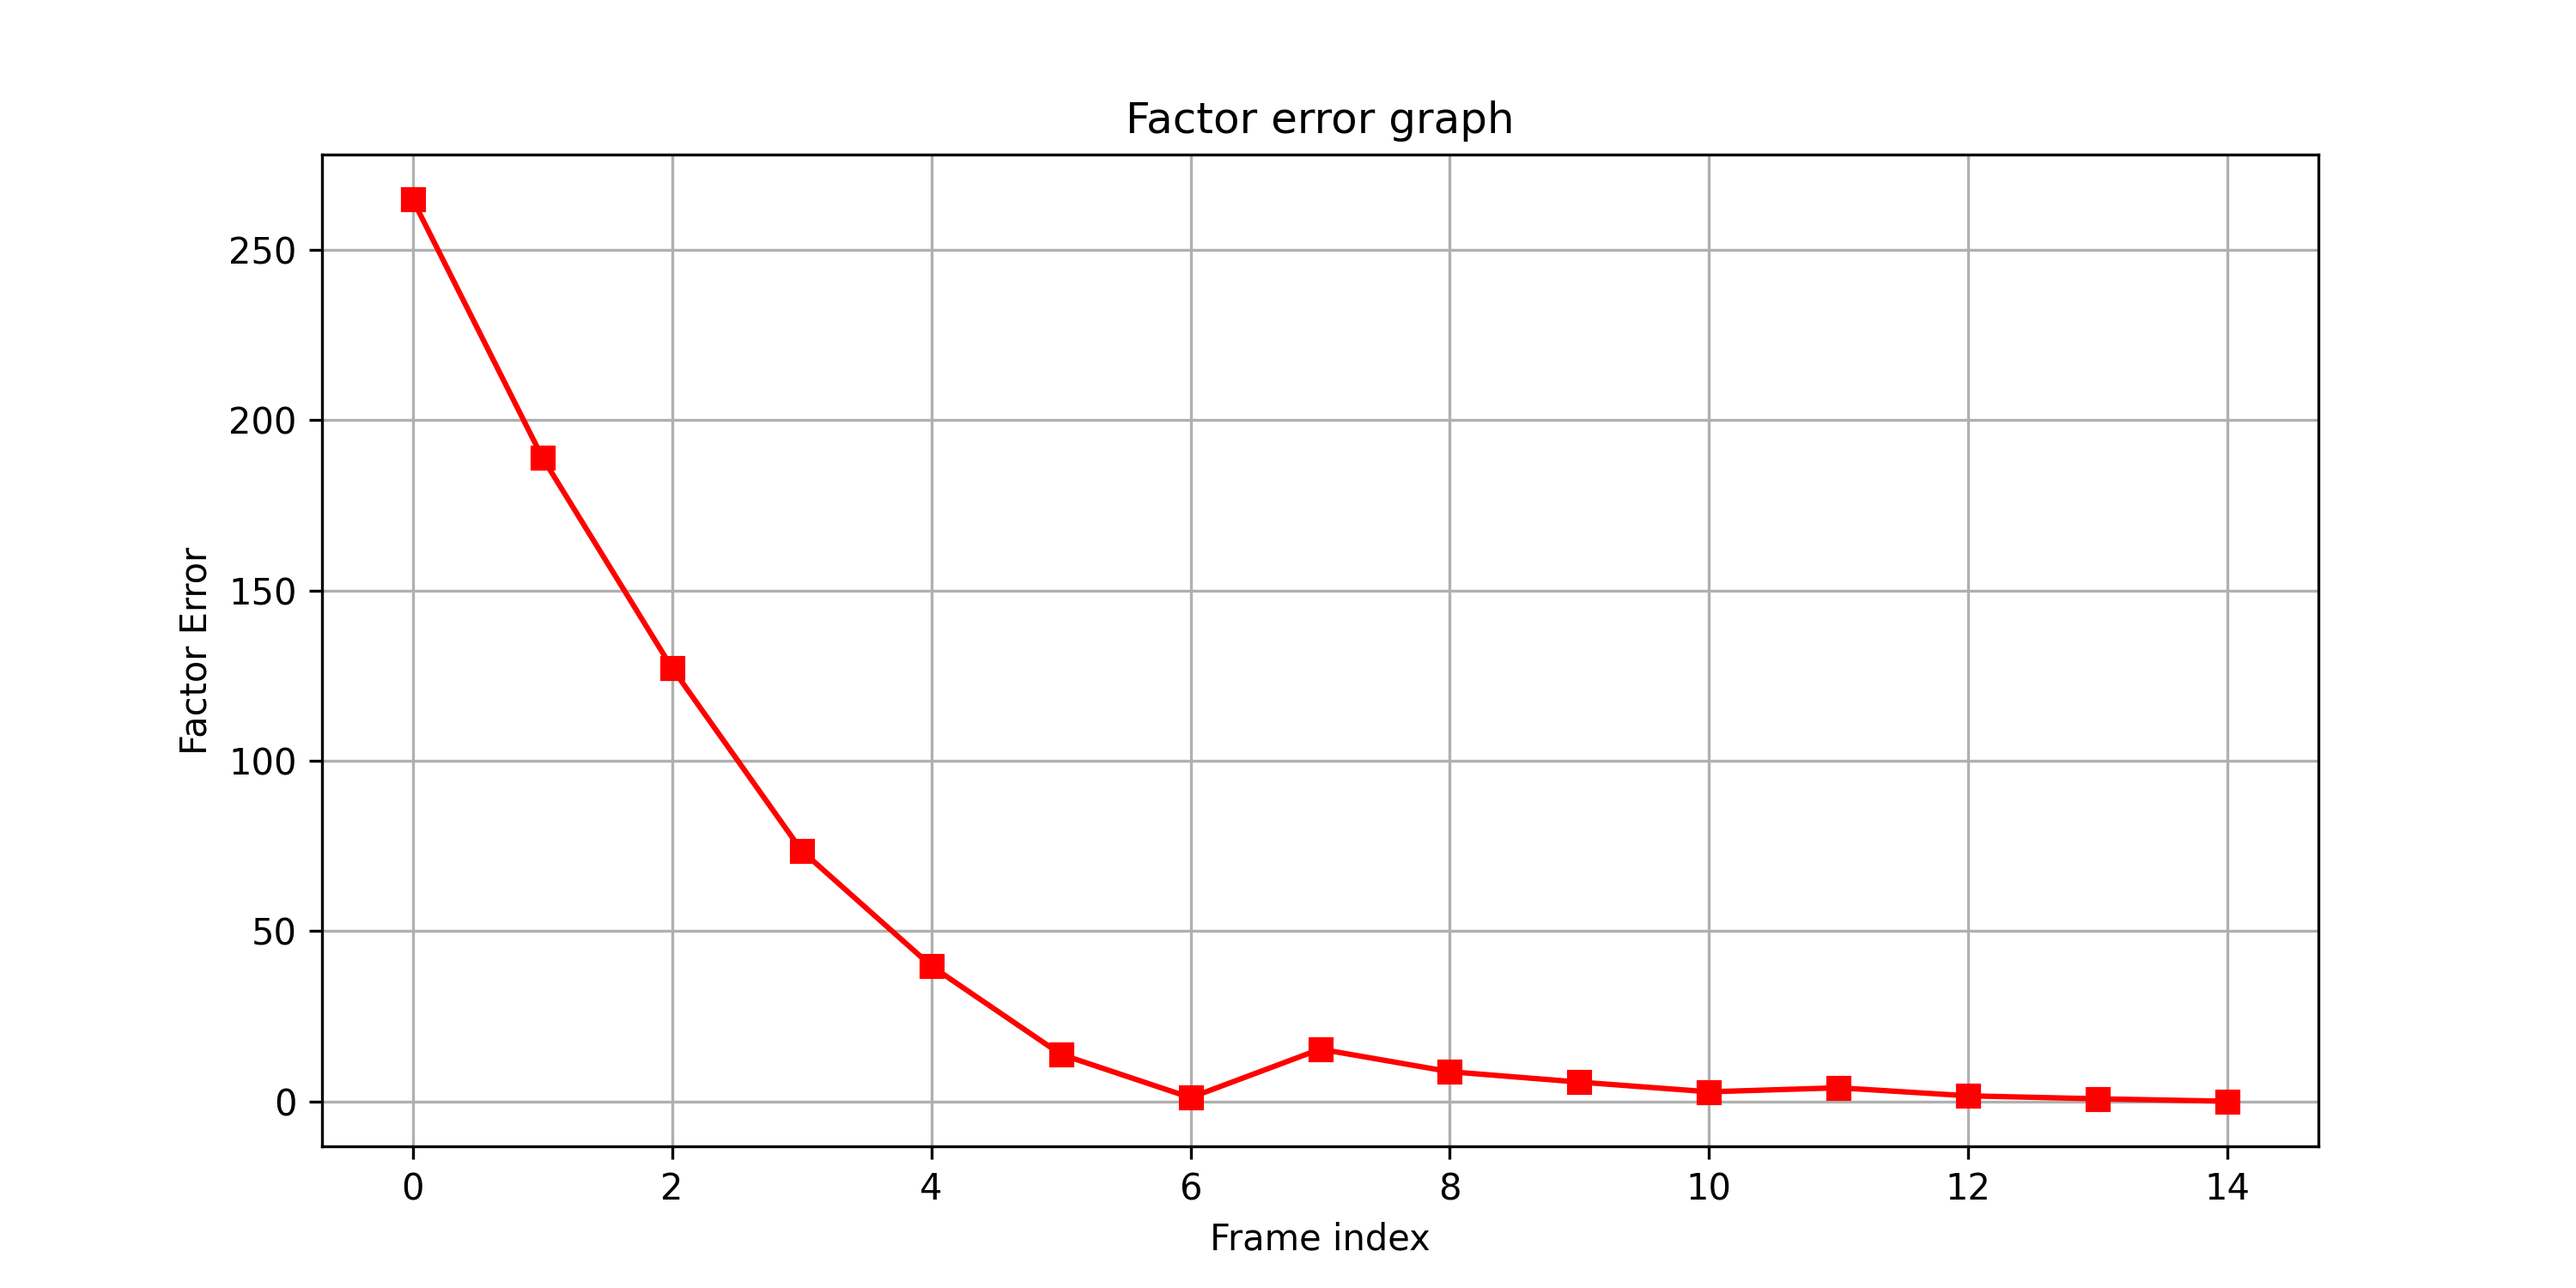
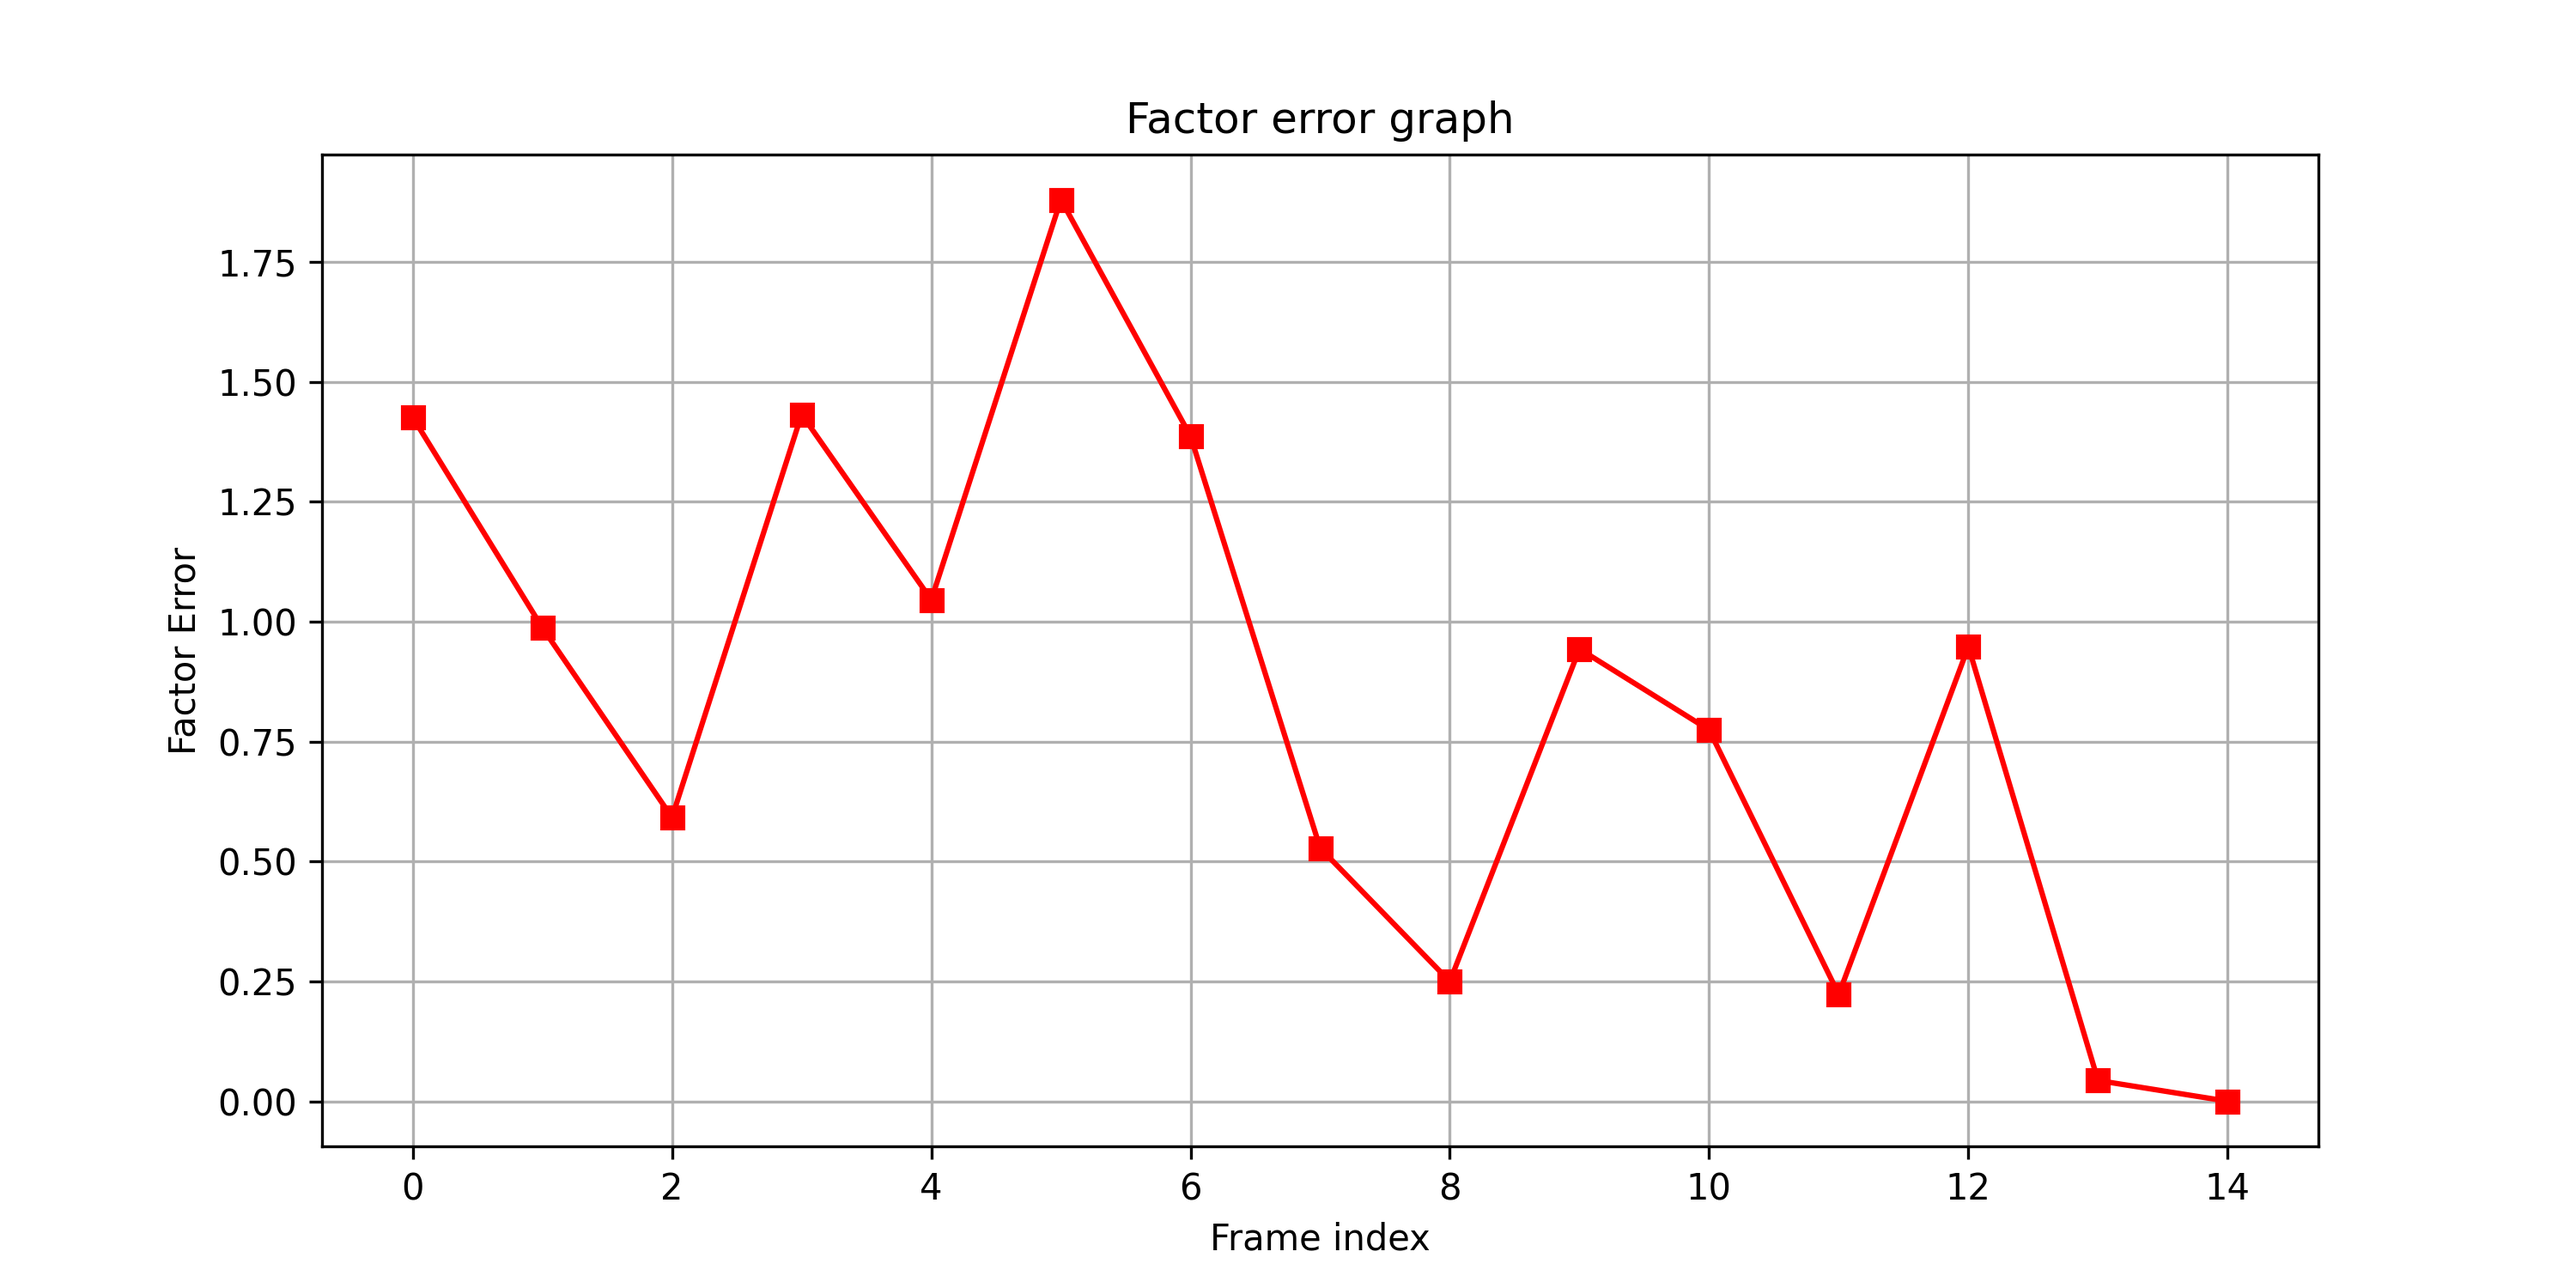
DETAILED PERFORMANCE ANALYSIS

diff --git a/code/project/utils/pose_graph.py b/code/project/utils/pose_graph.py
@@ -281,30 +281,37 @@ def compute_kitti_sequence_errors_keyframes(keyframe_ids, keyframe_poses_c2w, gt
 
         if end_kf_idx not in keyframe_poses_c2w or start_kf_idx not in keyframe_poses_c2w:
             continue
-        R_est_sf, t_est_sf = keyframe_poses_c2w[start_kf_idx]
-        R_est_ef, t_est_ef = keyframe_poses_c2w[end_kf_idx]
-        pose_est_sf = gtsam.Pose3(gtsam.Rot3(R_est_sf), gtsam.Point3(*t_est_sf.flatten()))
-        pose_est_ef = gtsam.Pose3(gtsam.Rot3(R_est_ef), gtsam.Point3(*t_est_ef.flatten()))
-        rel_pose_est = pose_est_sf.between(pose_est_ef)
+        try:
+            R_est_sf, t_est_sf = keyframe_poses_c2w[start_kf_idx]
+            R_est_ef, t_est_ef = keyframe_poses_c2w[end_kf_idx]
+            pose_est_sf = gtsam.Pose3(gtsam.Rot3(R_est_sf), gtsam.Point3(*t_est_sf.flatten()))
+            pose_est_ef = gtsam.Pose3(gtsam.Rot3(R_est_ef), gtsam.Point3(*t_est_ef.flatten()))
+            rel_pose_est = pose_est_sf.between(pose_est_ef)
 
-        R_gt_sf, t_gt_sf = gt_poses[start_kf]
-        R_gt_ef, t_gt_ef = gt_poses[end_kf]
-        pose_gt_sf = get_c2w_pose(R_gt_sf, t_gt_sf)
-        pose_gt_ef = get_c2w_pose(R_gt_ef, t_gt_ef)
-        rel_pose_gt = pose_gt_sf.between(pose_gt_ef)
-        rel_pose_err = rel_pose_est.inverse().compose(rel_pose_gt)
+            R_gt_sf, t_gt_sf = gt_poses[start_kf]
+            R_gt_ef, t_gt_ef = gt_poses[end_kf]
+            pose_gt_sf = get_c2w_pose(R_gt_sf, t_gt_sf)
+            pose_gt_ef = get_c2w_pose(R_gt_ef, t_gt_ef)
+            rel_pose_gt = pose_gt_sf.between(pose_gt_ef)
+            rel_pose_err = rel_pose_est.inverse().compose(rel_pose_gt)
 
-        R_err = rel_pose_err.rotation().matrix()
-        t_err = np.array(rel_pose_err.translation()).flatten()
-        loc_err = float(np.linalg.norm(t_err))
-        ang_err = relative_rotation_angle_deg(np.eye(3), R_err)
+            R_err = rel_pose_err.rotation().matrix()
+            t_err = np.array(rel_pose_err.translation()).flatten()
+            loc_err = float(np.linalg.norm(t_err))
+            ang_err = relative_rotation_angle_deg(np.eye(3), R_err)
 
-        total_distance = sum(np.linalg.norm(camera_center(*gt_poses[i+1]) - camera_center(*gt_poses[i]))
-                              for i in range(start_kf, end_kf))
-        if total_distance < 1e-6:
+            total_distance = sum(np.linalg.norm(camera_center(*gt_poses[i+1]) - camera_center(*gt_poses[i]))
+                                  for i in range(start_kf, end_kf))
+            if total_distance < 1e-6:
+                continue
+            loc_norm = 100.0 * loc_err / total_distance
+            ang_norm = ang_err / total_distance
+            # Only append if values are finite
+            if np.isfinite(loc_norm) and np.isfinite(ang_norm):
+                loc_err_pct.append(loc_norm)
+                ang_err_per_m.append(ang_norm)
+        except Exception:
             continue
-        loc_err_pct.append(100.0 * loc_err / total_distance)
-        ang_err_per_m.append(ang_err / total_distance)
 
     return loc_err_pct, ang_err_per_m
 

diff --git a/code/project/main.py b/code/project/main.py
@@ -970,7 +970,12 @@ def analyze_kitti_sequence_errors(db, keyframes, bundle_keyframe_poses):
             bundle_poses_dict = {}
             for i, kf in enumerate(keyframes):
                 if kf in bundle_keyframe_poses:
-                    bundle_poses_dict[i] = bundle_keyframe_poses[kf]
+                    pose_gtsam = bundle_keyframe_poses[kf]
+                    # Convert GTSAM Pose3 (C2W) to (R, t) tuple
+                    R_c2w = np.array(pose_gtsam.rotation().matrix())
+                    t_c2w = np.array(pose_gtsam.translation()).reshape(3, 1)
+                    bundle_poses_dict[i] = (R_c2w, t_c2w)
+
             if bundle_poses_dict:
                 loc_pct, ang_m = compute_kitti_sequence_errors_keyframes(
                     keyframes, bundle_poses_dict, read_ground_truth_poses(), seg_len
@@ -980,11 +985,13 @@ def analyze_kitti_sequence_errors(db, keyframes, bundle_keyframe_poses):
                 if loc_pct and ang_m:
                     print(f"  Bundle segment {seg_len}: {len(loc_pct)} segments, location error {np.mean(loc_pct):.2f}%, angle error {np.mean(ang_m):.4f} deg/m")
                 else:
-                    print(f"  Bundle segment {seg_len}: no valid segments (loc={len(loc_pct)}, ang={len(ang_m)})")
+                    print(f"  Bundle segment {seg_len}: {len(bundle_poses_dict)} poses, but no valid segments (loc={len(loc_pct)}, ang={len(ang_m)})")
             else:
-                print(f"  Bundle segment {seg_len}: no bundle poses available")
+                print(f"  Bundle segment {seg_len}: no bundle poses available ({len(keyframes)} keyframes, {len(bundle_keyframe_poses)} in poses dict)")
         except Exception as e:
+            import traceback
             print(f"  Bundle segment {seg_len}: error ({type(e).__name__}: {e})")
+            traceback.print_exc()
 
     # Only plot if we have non-empty data
     pnp_loc_has_data = any(len(v) > 0 for v in pnp_loc_results.values())

diff --git a/code/project/utils/geometry.py b/code/project/utils/geometry.py
@@ -106,15 +106,22 @@ def compute_kitti_sequence_errors(poses, gt_poses, segment_length):
     loc_err_pct, ang_err_per_m = [], []
     for start in range(0, n - segment_length):
         end = start + segment_length
-        R_est_rel, t_est_rel = relative_pose_w2c(*poses[start], *poses[end])
-        R_gt_rel, t_gt_rel = relative_pose_w2c(*gt_poses[start], *gt_poses[end])
-        loc_err, ang_err = compute_relative_pose_error_deg_m(R_est_rel, t_est_rel, R_gt_rel, t_gt_rel)
-        total_distance = sum(np.linalg.norm(camera_center(*gt_poses[i+1]) - camera_center(*gt_poses[i]))
-                              for i in range(start, end))
-        if total_distance < 1e-6:
+        try:
+            R_est_rel, t_est_rel = relative_pose_w2c(*poses[start], *poses[end])
+            R_gt_rel, t_gt_rel = relative_pose_w2c(*gt_poses[start], *gt_poses[end])
+            loc_err, ang_err = compute_relative_pose_error_deg_m(R_est_rel, t_est_rel, R_gt_rel, t_gt_rel)
+            total_distance = sum(np.linalg.norm(camera_center(*gt_poses[i+1]) - camera_center(*gt_poses[i]))
+                                  for i in range(start, end))
+            if total_distance < 1e-6:
+                continue
+            loc_norm = 100.0 * loc_err / total_distance
+            ang_norm = ang_err / total_distance
+            # Only append if values are finite
+            if np.isfinite(loc_norm) and np.isfinite(ang_norm):
+                loc_err_pct.append(loc_norm)
+                ang_err_per_m.append(ang_norm)
+        except Exception:
             continue
-        loc_err_pct.append(100.0 * loc_err / total_distance)
-        ang_err_per_m.append(ang_err / total_distance)
     return loc_err_pct, ang_err_per_m
 
 

diff --git a/code/project/utils/visualization.py b/code/project/utils/visualization.py
@@ -903,6 +903,11 @@ def plot_full_trajectory_comparison(pnp_positions, bundle_ids, bundle_positions,
 
 def plot_kitti_sequence_error(segment_results, ylabel, title, output_path):
     """Plots KITTI sequence error for segments of different lengths (100, 400, 800 frames)."""
+    # Early abort if no data at all
+    total_data_points = sum(len(v) if isinstance(v, list) else 0 for v in segment_results.values())
+    if total_data_points == 0:
+        return
+
     plt.figure(figsize=(12, 5))
     colors = {100: "blue", 400: "orange", 800: "red"}
     has_data = False
@@ -921,10 +926,8 @@ def plot_kitti_sequence_error(segment_results, ylabel, title, output_path):
         plt.title(title)
         plt.grid(True)
         plt.legend()
-    else:
-        plt.text(0.5, 0.5, "No valid data to plot", ha="center", va="center", transform=plt.gca().transAxes)
-    plt.tight_layout()
-    plt.savefig(output_path, dpi=200)
+        plt.tight_layout()
+        plt.savefig(output_path, dpi=200)
     plt.close()
 
 
